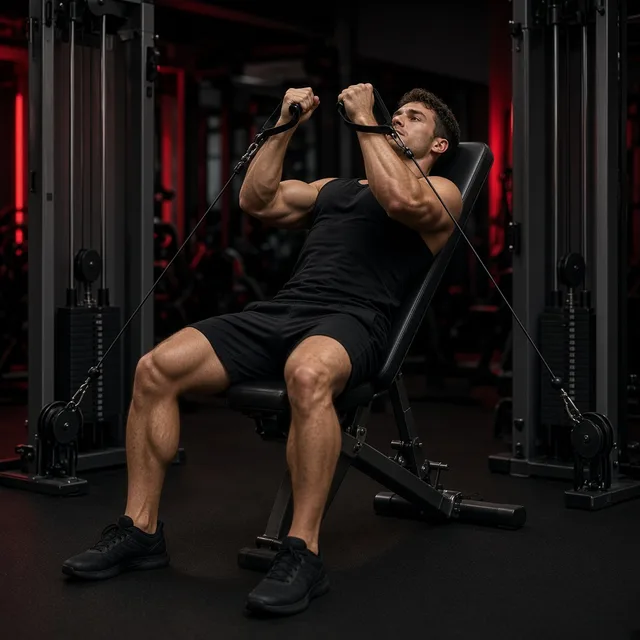
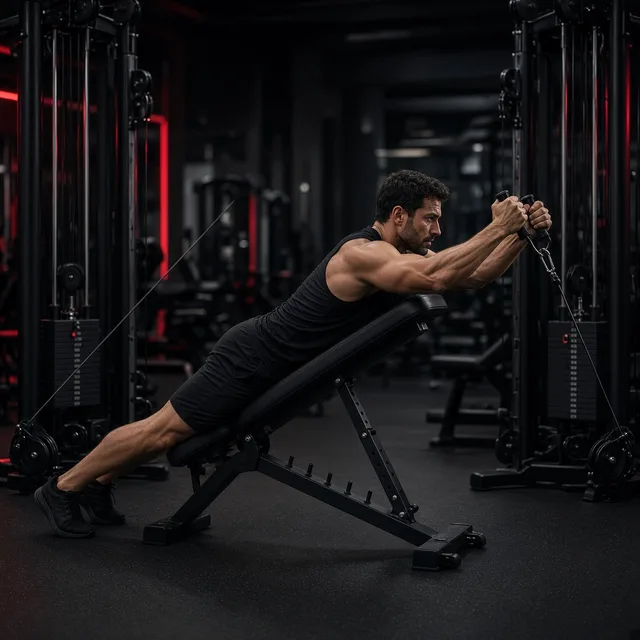
Update 2026-11-03

diff --git a/app.js b/app.js
@@ -1,6 +1,6 @@
 /* Voccola Gym Log – Vanilla JS, offline, keine Tracker. Daten bleiben im Browser (IndexedDB). */
 'use strict';
-const APP_VERSION = '1.7.18';
+const APP_VERSION = '1.7.19';
 
 /* ---------- Helpers ---------- */
 const $ = (s, r = document) => r.querySelector(s);
@@ -118,10 +118,10 @@ const FREE_EX = [
 const FREE_PRESET = [['r-revfly', 'Reverse Butterfly (hintere Schulter)'], ['r-facepull', 'Face Pulls (Seil)'], ['s-seitheben-vorgebeugt', 'Vorgebeugtes Seitheben (hintere Schulter)'],
   ['s-seitheben-kabel-einarm', 'Seitheben Kabel einarmig'], ['x11', 'Schulterpresse Maschine'], ['bauch-crunch-maschine', 'Crunchmaschine'],
   ['x19', 'Knieheben am Beinstrecker'], ['x21', 'Seitbeugen'], ['x20', 'Crunch am Seilzug']];
-/* v1.7.18: Schrägbank-Kabelfly (obere Brust) – im Oberkörper-Plan (Brust, nach „Fliegende liegend“), Bild b-fly-schraeg-kabel.webp; nur ergänzt, bestehende Verläufe unverändert */
-const INCLINE_FLY = { id: 'b-fly-schraeg-kabel', name: 'Schrägbank-Kabelfly (obere Brust)', group: 'Brust', unit: 'reps', perSide: false, elbow: 'e', target: 12, order: 4.5,
-  desc: 'Plan: 3–4×12–15 Wdh., moderates Gewicht. Fokus: Dehnung und Squeeze.\n\nSetup: Verstellbare Bank auf Schräge (ca. 30–45°) mittig zwischen die beiden Kabeltürme stellen, Kabel ganz unten (untere Rollen). Zurücklehnen, Arme leicht gebeugt.\n\nAusführung: Griffe in einem Bogen von unten nach oben über der oberen Brust zusammenführen (Low-to-High).\n• Ellenbogen leicht gebeugt und fix\n• Schulterblätter zurück und nach unten\n• Oben über der oberen Brust zusammenführen und 1 s squeezen\n• Langsam in 2–3 s ablassen bis zur Dehnung',
-  elbowNote: 'Tennisarm: Ellenbogen weich halten, keine schweren Gewichte – lieber leichter, sauber und mit Dehnung.' };
+/* v1.7.19: Schrägbank-Kabelfly jetzt in BAUCHLAGE (Brust auf dem Polster, Kabel unten, Griffe nach vorn-oben) – Name/Beschreibung/Bild korrigiert (Migration v10, gleiche ID); v1.7.18: erstmals im Oberkörper-Plan (Brust, nach „Fliegende liegend“), Bild b-fly-schraeg-kabel.webp */
+const INCLINE_FLY = { id: 'b-fly-schraeg-kabel', name: 'Schrägbank-Kabelfly in Bauchlage (obere Brust)', group: 'Brust', unit: 'reps', perSide: false, elbow: 'e', target: 12, order: 4.5,
+  desc: 'Plan: 3–4×12–15 Wdh., moderates Gewicht. Fokus: Squeeze oben, saubere Kontrolle.\n\nSetup: Verstellbare Bank auf Schräge (ca. 30–45°) vor bzw. zwischen die beiden Kabeltürme stellen, Kabel ganz unten (untere Rollen). Bauchlage: mit der Brust auf das Polster legen, Gesicht zum Kabelturm, Zehen am Boden. Je einen Griff greifen, Arme hängen leicht gebeugt nach unten.\n\nAusführung: Griffe in einem Bogen von unten nach vorn-oben führen (Low-to-High) und etwa auf Augenhöhe vor dir zusammenführen.\n• Brust bleibt auf dem Polster\n• Schultern tief, nicht hochziehen\n• Ellenbogen leicht gebeugt und weich\n• Oben 1 s squeezen\n• 2–3 s langsam zurück, bis die Arme unten sind\n• Kein Schwung',
+  elbowNote: 'Tennisarm: Ellenbogen weich halten, keine schweren Gewichte – lieber leichter, sauber und kontrolliert.' };
 /* v1.7.17: Arm-Bein-Wischübung in Bauchlage (diagonal) – Abwechslung-Rotationspool (ROT, jetzt 10 Übungen, 3/Tag), Bilder armbeinwisch.webp + seq_armbeinwisch.webp; alte Verläufe unverändert (rotForOld nutzt nur die ersten 9, am Ende angehängt) */
 /* v1.7.16: Kniestand-Fersensitz-Rock (links betont, Abend täglich, mobility.js) – Bilder kniefersenrock.webp + seq_kniefersenrock.webp */
 /* v1.7.15: Tages-Rotation der Hüft-Übungen (Kern täglich + Wechsel nach Datum) + Psoas-Reset an der Wand (Abend) – mobility.js */
@@ -253,6 +253,12 @@ async function loadAll() {
     // Nur ergänzen: Schrägbank-Kabelfly sichtbar im Oberkörper-Plan (Brust) – bestehende Übungen/Sätze bleiben unverändert
     if (!exById(INCLINE_FLY.id) && !S.exercises.some(x => x.name === INCLINE_FLY.name)) await save('exercises', { ...INCLINE_FLY, photo: null });
     await setMeta('catalogVersion', 9);
+  }
+  if ((S.meta.catalogVersion || 0) < 10) {
+    // Korrektur: Kabelfly in Bauchlage – gespeicherten Eintrag (gleiche ID) auf neuen Namen/Text bringen; Sätze/Verläufe hängen an der ID und bleiben erhalten
+    const fl = exById(INCLINE_FLY.id);
+    if (fl) { fl.name = INCLINE_FLY.name; fl.desc = INCLINE_FLY.desc; fl.elbowNote = INCLINE_FLY.elbowNote; await save('exercises', fl); }
+    await setMeta('catalogVersion', 10);
   }
 }
 

diff --git a/sw.js b/sw.js
@@ -1,5 +1,5 @@
-/* Voccola Gym Log – Service Worker (v1.7.18: Schrägbank-Kabelfly) */
-const CACHE = 'vgl-v1.7.18';
+/* Voccola Gym Log – Service Worker (v1.7.19: Kabelfly in Bauchlage) */
+const CACHE = 'vgl-v1.7.19';
 const ASSETS = ['./', './index.html', './styles.css', './app.js', './mobility.js', './manifest.webmanifest',
   './icons/icon-192.png', './icons/icon-512.png', './icons/apple-touch-icon.png', './icons/icon-maskable-512.png', './assets/dumbbell.webp', './assets/keepawake.mp4',
   './assets/ex/b-fly-schraeg-kabel.webp', './assets/ex/bauch-crunch-maschine.webp', './assets/ex/r-facepull.webp', './assets/ex/r-revfly.webp', './assets/ex/r-row-incline-kabel.webp', './assets/ex/s-presse-kabel-liegend.webp', './assets/ex/s-seitheben-kabel-einarm.webp', './assets/ex/s-seitheben-vorgebeugt.webp', './assets/ex/x1.webp', './assets/ex/x10.webp', './assets/ex/x11.webp', './assets/ex/x12.webp', './assets/ex/x13.webp', './assets/ex/x14.webp', './assets/ex/x15.webp', './assets/ex/x16.webp', './assets/ex/x17.webp', './assets/ex/x18.webp', './assets/ex/x19.webp', './assets/ex/x2.webp', './assets/ex/x20.webp', './assets/ex/x21.webp', './assets/ex/x22.webp', './assets/ex/x23.webp', './assets/ex/x24.webp', './assets/ex/x25.webp', './assets/ex/x26.webp', './assets/ex/x27.webp', './assets/ex/x28.webp', './assets/ex/x3.webp', './assets/ex/x4.webp', './assets/ex/x5.webp', './assets/ex/x6.webp', './assets/ex/x7.webp', './assets/ex/x8.webp', './assets/ex/x9.webp', 
